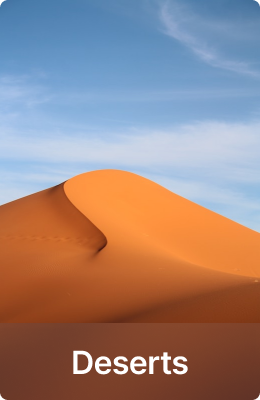
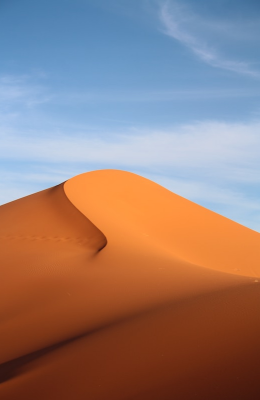
fix issues

Changed region(s): [[0.0, 0.81, 1.0, 1.0], [0.9846, 0.0, 1.0, 0.03], [0.0, 0.0, 0.0308, 0.03]]

diff --git a/components/home/Places.jsx b/components/home/Places.jsx
@@ -1,13 +1,9 @@
 import React, { useState, useEffect, useRef, useCallback } from 'react'
-// import Slider from 'react-slick'
 import { useDispatch, useSelector } from 'react-redux'
 import { fetchPlacesRequest } from '@/actions/home'
-// import 'slick-carousel/slick/slick.css'
-// import 'slick-carousel/slick/slick-theme.css'
 import { FiArrowUpRight } from 'react-icons/fi'
 import arrow from '../../public/images/Arrow.png'
 import Image from 'next/image'
-import Slider from '../reusable/Slider'
 
 function Places () {
   const [places, setPlaces] = useState([])
@@ -21,6 +17,7 @@ function Places () {
   const [offsetY, setOffsetY] = useState(0)
   const [screenWidth, setScreenWidth] = useState()
   const [classNames, setClassNames] = useState([])
+  const [mouseOver, setMouseOver] = useState(false)
   const intervalRef = useRef(null)
   const data = useSelector(state => state.home.places)
   const dispatch = useDispatch()
@@ -40,16 +37,18 @@ function Places () {
         clearInterval(intervalRef.current)
       }
     } else {
-      intervalRef.current = setInterval(() => {
-        setClassNames(prevClasses => {
-          const newClasses = [...prevClasses]
-          newClasses.push(newClasses.shift())
-          return newClasses
-        })
-        setCurrentIndex(
-          prevIndex => (prevIndex - 1 + places.length) % places.length
-        )
-      }, 3000) // 3 seconds
+      if (!clickIcon && !mouseOver) {
+        intervalRef.current = setInterval(() => {
+          setClassNames(prevClasses => {
+            const newClasses = [...prevClasses]
+            newClasses.push(newClasses.shift())
+            return newClasses
+          })
+          setCurrentIndex(
+            prevIndex => (prevIndex - 1 + places.length) % places.length
+          )
+        }, 3000) // 3 seconds
+      }
     }
 
     return () => {
@@ -57,7 +56,7 @@ function Places () {
         clearInterval(intervalRef.current)
       }
     }
-  }, [isTransitioning, places.length])
+  }, [isTransitioning, places.length, clickIcon, mouseOver])
 
   useEffect(() => {
     if (data.length) setPlaces(data)
@@ -300,15 +299,6 @@ function Places () {
       </div>
 
       {/* Custom Pagination */}
-
-      {/* <Slider
-        clickIcon={clickIcon}
-        places={places}
-        setMoveCount={diff => {
-          let newIndex = (currentIndex + diff + places.length) % places.length
-          setCurrentIndex(newIndex)
-        }}
-      /> */}
       <div
         className={`absolute bottom-0 lg:right-0 w-full lg:h-full lg:w-48
          ${clickIcon ? 'hidden' : 'flex flex-col items-center'}`}
@@ -322,7 +312,12 @@ function Places () {
         <div className='relative slider-container relative w-full lg:h-screen'>
           {data.map((item, index) => {
             return (
-              <div key={index} className={classNames[index]}>
+              <div
+                key={index}
+                className={classNames[index]}
+                onMouseOver={() => setMouseOver(true)}
+                onMouseOut={() => setMouseOver(false)}
+              >
                 <img
                   src={item.image && item.image.src}
                   className='w-full h-48 sm:h-64 lg:w-64 lg:h-full cursor-pointer'

diff --git a/components/home/Favourite.jsx b/components/home/Favourite.jsx
@@ -1,23 +1,17 @@
-import React from 'react'
+import React, { useEffect } from 'react'
 import Image from 'next/image'
 import Link from 'next/link'
+import { useDispatch, useSelector } from 'react-redux'
+import { fetchFavouritePlacesRequest } from '@/actions/home'
 
-import Favourite1 from '../../public/images/favourite1.png'
-import Favourite2 from '../../public/images/favourite2.png'
-import Favourite3 from '../../public/images/favourite3.png'
-import Favourite4 from '../../public/images/favourite4.png'
-import Favourite5 from '../../public/images/favourite5.png'
-import Favourite6 from '../../public/images/favourite6.png'
-
-const images = [
-  Favourite1,
-  Favourite2,
-  Favourite3,
-  Favourite4,
-  Favourite5,
-  Favourite6
-]
 function Favourite ({}) {
+  const data = useSelector(state => state.home.favourite_places)
+  const dispatch = useDispatch()
+
+  useEffect(() => {
+    dispatch(fetchFavouritePlacesRequest())
+  }, [dispatch])
+
   return (
     <div
       className='container-custom flex flex-col'
@@ -27,19 +21,22 @@ function Favourite ({}) {
         <div className='font-semibold text-3xl sm:text-5xl lg:text-7xl my-12 sm:my-24 text-center'>
           Favourite Places
         </div>
-        <div className=' grid grid-cols-3 lg:grid-cols-6 gap-8 relative flex min-h-64 sm:min-h-64 pb-24'>
-          {images.map((item, index) => (
+        <div className=' grid grid-cols-3 lg:grid-cols-6 gap-4 sm:gap-8 relative flex min-h-64 sm:min-h-64 pb-24'>
+          {data.map((item, index) => (
             <div
-              className='bg-white shadow-md rounded-lg overflow-hidden'
+              className='relative bg-white shadow-md rounded-lg overflow-hidden'
               key={index}
             >
               {/* Main Image */}
               <Image
-                src={item}
+                src={item.thumbnail}
                 alt={item.name}
                 className='w-full h-32 object-cover min-h-32'
                 layout='responsive'
               />
+              <div className='absolute text-white font-semibold backdrop-blur-md bottom-0 bg-white/30 w-full h-1/5 flex justify-center items-center sm:text-2xl md:text-3xl lg:text-base xl:text-xl 2xl:text-2xl 3xl:text-3xl'>
+                {item.name}
+              </div>
             </div>
           ))}
         </div>

diff --git a/sagas/home/index.js b/sagas/home/index.js
@@ -7,19 +7,23 @@ import {
   fetchRecentAdditionsSuccess,
   fetchRecentAdditionsFailure,
   fetchPlacesSuccess,
-  fetchPlacesFailure
+  fetchPlacesFailure,
+  fetchFavouritePlacesSuccess,
+  fetchFavouritePlacesFailure
 } from "../../actions/home";
 import {
   FETCH_INTERESTS_REQUEST,
   FETCH_POPULAR_COUNTRIES_REQUEST,
   FETCH_RECENT_ADDITIONS_REQUEST,
-  FETCH_PLACES_REQUEST
+  FETCH_PLACES_REQUEST,
+  FETCH_FAVOURITE_PLACES_REQUEST
 } from "../../actions/types";
 import {
   fetchInterestData,
   fetchPopularData,
   fetchRecentData,
-  fetchPlaceData
+  fetchPlaceData,
+  fetchFavouritePlaceData
 } from "../../api"; // Assuming you have an API module to handle your requests
 
 function* fetchInterests() {
@@ -58,9 +62,19 @@ function* fetchPlaces() {
   }
 }
 
+function* fetchFavouritePlaces() {
+  try {
+    const response = yield call(fetchFavouritePlaceData);
+    yield put(fetchFavouritePlacesSuccess(response));
+  } catch (error) {
+    yield put(fetchFavouritePlacesFailure(error.message));
+  }
+}
+
 export function* homeSaga() {
   yield takeLatest(FETCH_INTERESTS_REQUEST, fetchInterests);
   yield takeLatest(FETCH_POPULAR_COUNTRIES_REQUEST, fetchPopularCountries);
   yield takeLatest(FETCH_RECENT_ADDITIONS_REQUEST, fetchRecentAdditions);
   yield takeLatest(FETCH_PLACES_REQUEST, fetchPlaces);
+  yield takeLatest(FETCH_FAVOURITE_PLACES_REQUEST, fetchFavouritePlaces);
 }

diff --git a/pages/api/favourite-places.js b/pages/api/favourite-places.js
@@ -1,0 +1,48 @@
+// Next.js API route support: https://nextjs.org/docs/api-routes/introduction
+import place1 from "../../public/images/favourite1.png";
+import place2 from "../../public/images/favourite2.png";
+import place3 from "../../public/images/favourite3.png";
+import place4 from "../../public/images/favourite4.png";
+import place5 from "../../public/images/favourite5.png";
+import place6 from "../../public/images/favourite6.png";
+
+export default function handler(req, res) {
+  res.status(200).json([
+    {
+      id: 1,
+      name: "Deserts",
+      thumbnail: place1,
+      place_url: "https://social.geofroggy.com/tag/glaciers"
+    },
+    {
+      id: 2,
+      name: "Beaches",
+      thumbnail: place2,
+      place_url: "https://social.geofroggy.com/tag/glaciers"
+    },
+    {
+      id: 3,
+      name: "Mountains",
+      thumbnail: place3,
+      place_url: "https://social.geofroggy.com/tag/glaciers"
+    },
+    {
+      id: 4,
+      name: "Glaciers",
+      thumbnail: place4,
+      place_url: "https://social.geofroggy.com/tag/glaciers"
+    },
+    {
+      id: 5,
+      name: "Volcanos",
+      thumbnail: place5,
+      place_url: "https://social.geofroggy.com/tag/glaciers"
+    },
+    {
+      id: 6,
+      name: "Wildlife",
+      thumbnail: place6,
+      place_url: "https://social.geofroggy.com/tag/glaciers"
+    }
+  ]);
+}

diff --git a/reducers/homeReducer.js b/reducers/homeReducer.js
@@ -10,7 +10,10 @@ import {
   FETCH_RECENT_ADDITIONS_FAILURE,
   FETCH_PLACES_REQUEST,
   FETCH_PLACES_SUCCESS,
-  FETCH_PLACES_FAILURE
+  FETCH_PLACES_FAILURE,
+  FETCH_FAVOURITE_PLACES_REQUEST,
+  FETCH_FAVOURITE_PLACES_SUCCESS,
+  FETCH_FAVOURITE_PLACES_FAILURE
 } from "../actions/types";
 
 const initialState = {
@@ -18,7 +21,8 @@ const initialState = {
   interests: [],
   popular_countries: [],
   recent_additions: [],
-  places: []
+  places: [],
+  favourite_places: []
 };
 
 const dataReducer = (state = initialState, action) => {
@@ -86,6 +90,23 @@ const dataReducer = (state = initialState, action) => {
         places: action.payload
       };
     case FETCH_PLACES_FAILURE:
+      return {
+        ...state,
+        loading: false,
+        error: action.payload
+      };
+    case FETCH_FAVOURITE_PLACES_REQUEST:
+      return {
+        ...state,
+        loading: true
+      };
+    case FETCH_FAVOURITE_PLACES_SUCCESS:
+      return {
+        ...state,
+        loading: false,
+        favourite_places: action.payload
+      };
+    case FETCH_FAVOURITE_PLACES_FAILURE:
       return {
         ...state,
         loading: false,

diff --git a/actions/home/index.js b/actions/home/index.js
@@ -8,6 +8,9 @@ import {
   FETCH_RECENT_ADDITIONS_REQUEST,
   FETCH_RECENT_ADDITIONS_SUCCESS,
   FETCH_RECENT_ADDITIONS_FAILURE,
+  FETCH_FAVOURITE_PLACES_REQUEST,
+  FETCH_FAVOURITE_PLACES_SUCCESS,
+  FETCH_FAVOURITE_PLACES_FAILURE,
   FETCH_PLACES_REQUEST,
   FETCH_PLACES_SUCCESS,
   FETCH_PLACES_FAILURE
@@ -63,5 +66,18 @@ export const fetchPlacesSuccess = (data) => ({
 
 export const fetchPlacesFailure = (error) => ({
   type: FETCH_PLACES_FAILURE,
+  payload: error
+});
+export const fetchFavouritePlacesRequest = () => ({
+  type: FETCH_FAVOURITE_PLACES_REQUEST
+});
+
+export const fetchFavouritePlacesSuccess = (data) => ({
+  type: FETCH_FAVOURITE_PLACES_SUCCESS,
+  payload: data
+});
+
+export const fetchFavouritePlacesFailure = (error) => ({
+  type: FETCH_FAVOURITE_PLACES_FAILURE,
   payload: error
 });

diff --git a/actions/types.js b/actions/types.js
@@ -14,7 +14,9 @@ export const FETCH_RECENT_ADDITIONS_FAILURE = "FETCH_RECENT_ADDITIONS_FAILURE";
 export const FETCH_PLACES_REQUEST = "FETCH_PLACES_REQUEST";
 export const FETCH_PLACES_SUCCESS = "FETCH_PLACES_SUCCESS";
 export const FETCH_PLACES_FAILURE = "FETCH_PLACES_FAILURE";
-
+export const FETCH_FAVOURITE_PLACES_REQUEST = "FETCH_FAVOURITE_PLACES_REQUEST";
+export const FETCH_FAVOURITE_PLACES_SUCCESS = "FETCH_FAVOURITE_PLACES_SUCCESS";
+export const FETCH_FAVOURITE_PLACES_FAILURE = "FETCH_FAVOURITE_PLACES_FAILURE";
 //***************************aboutus_actions***************************** */
 export const FETCH_SITE_INFO_REQUEST = "FETCH_SITE_INFO_REQUEST";
 export const FETCH_SITE_INFO_SUCCESS = "FETCH_SITE_INFO_SUCCESS";

diff --git a/api/index.js b/api/index.js
@@ -29,6 +29,11 @@ export const fetchPlaceData = async () => {
   const data = await res.json();
   return data;
 };
+export const fetchFavouritePlaceData = async () => {
+  const res = await fetch("/api/favourite-places");
+  const data = await res.json();
+  return data;
+};
 export const fetchSiteInfoData = async () => {
   const res = await fetch("/api/site-info");
   const data = await res.json();
